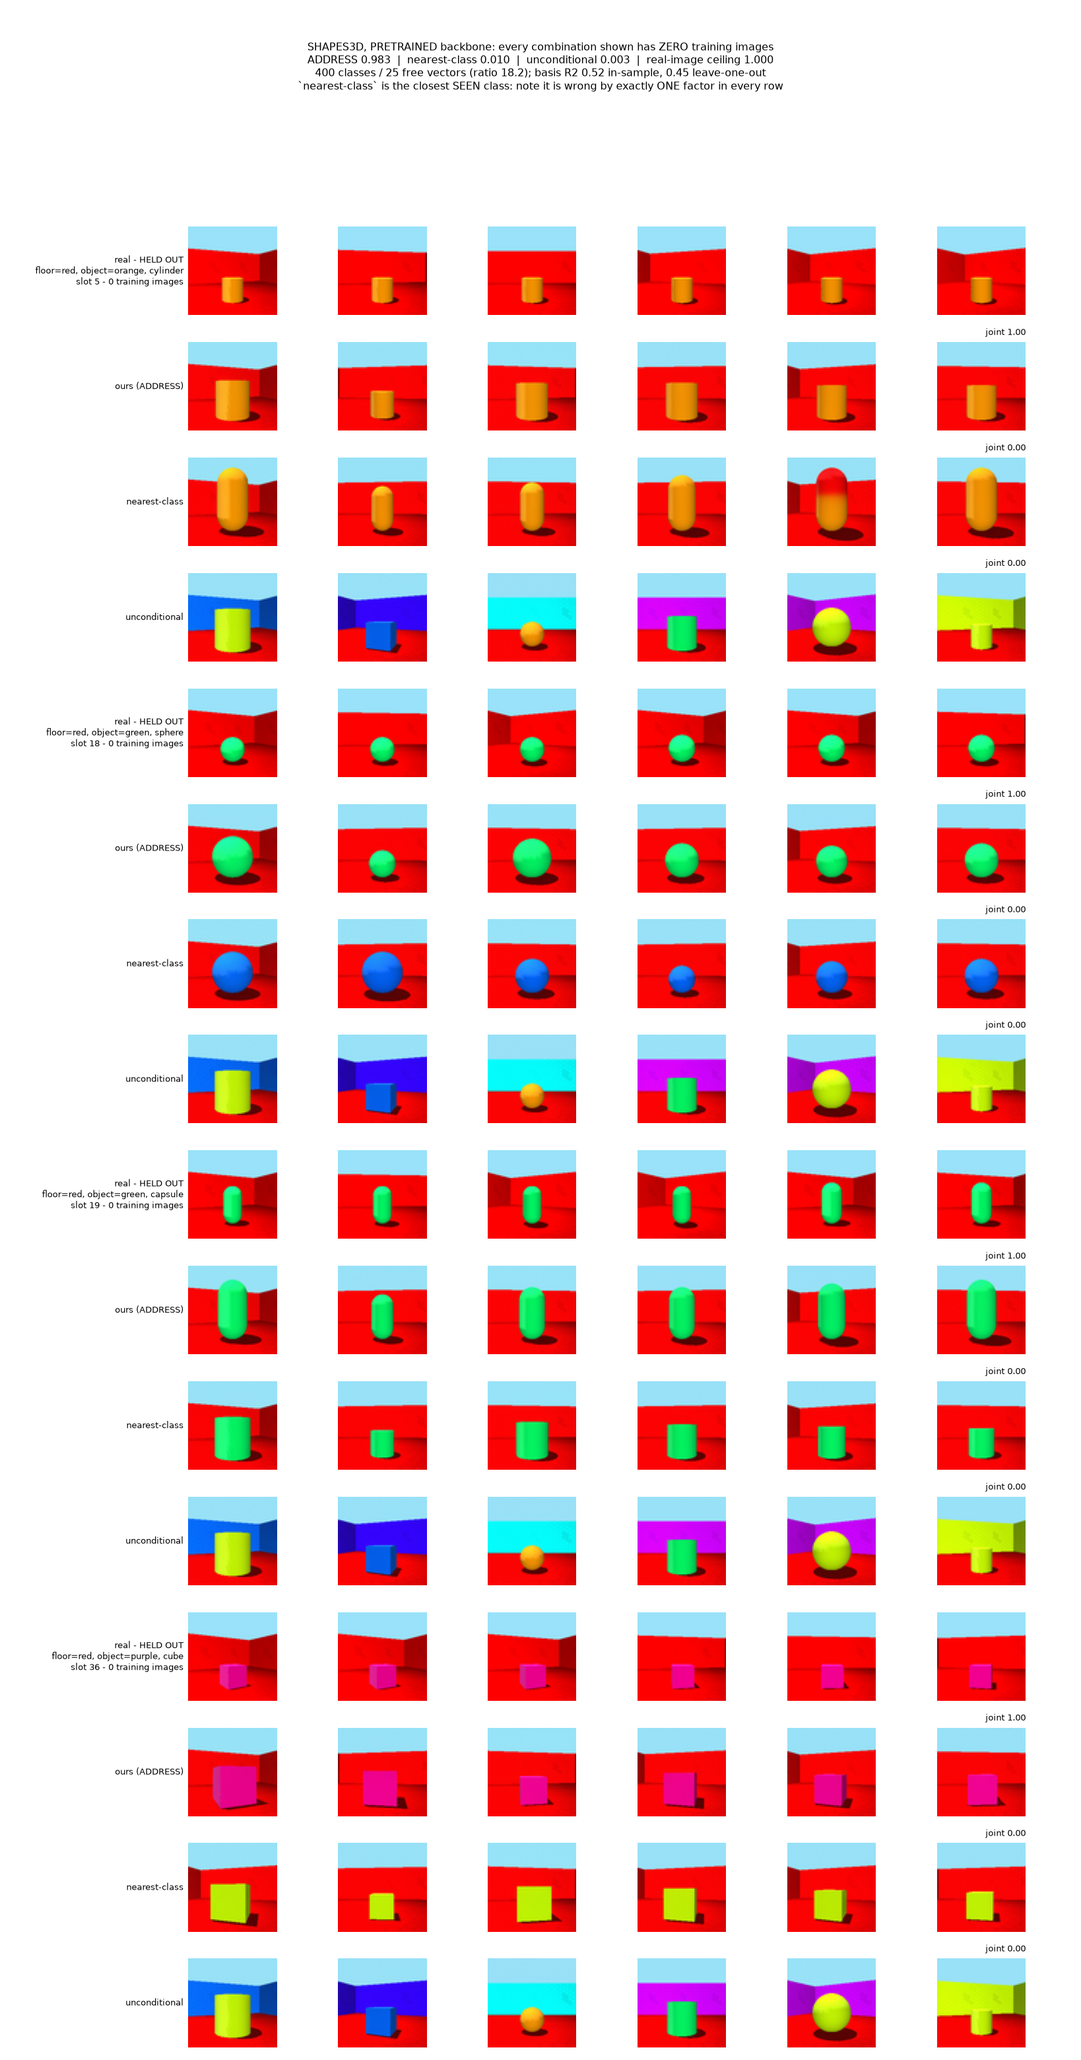
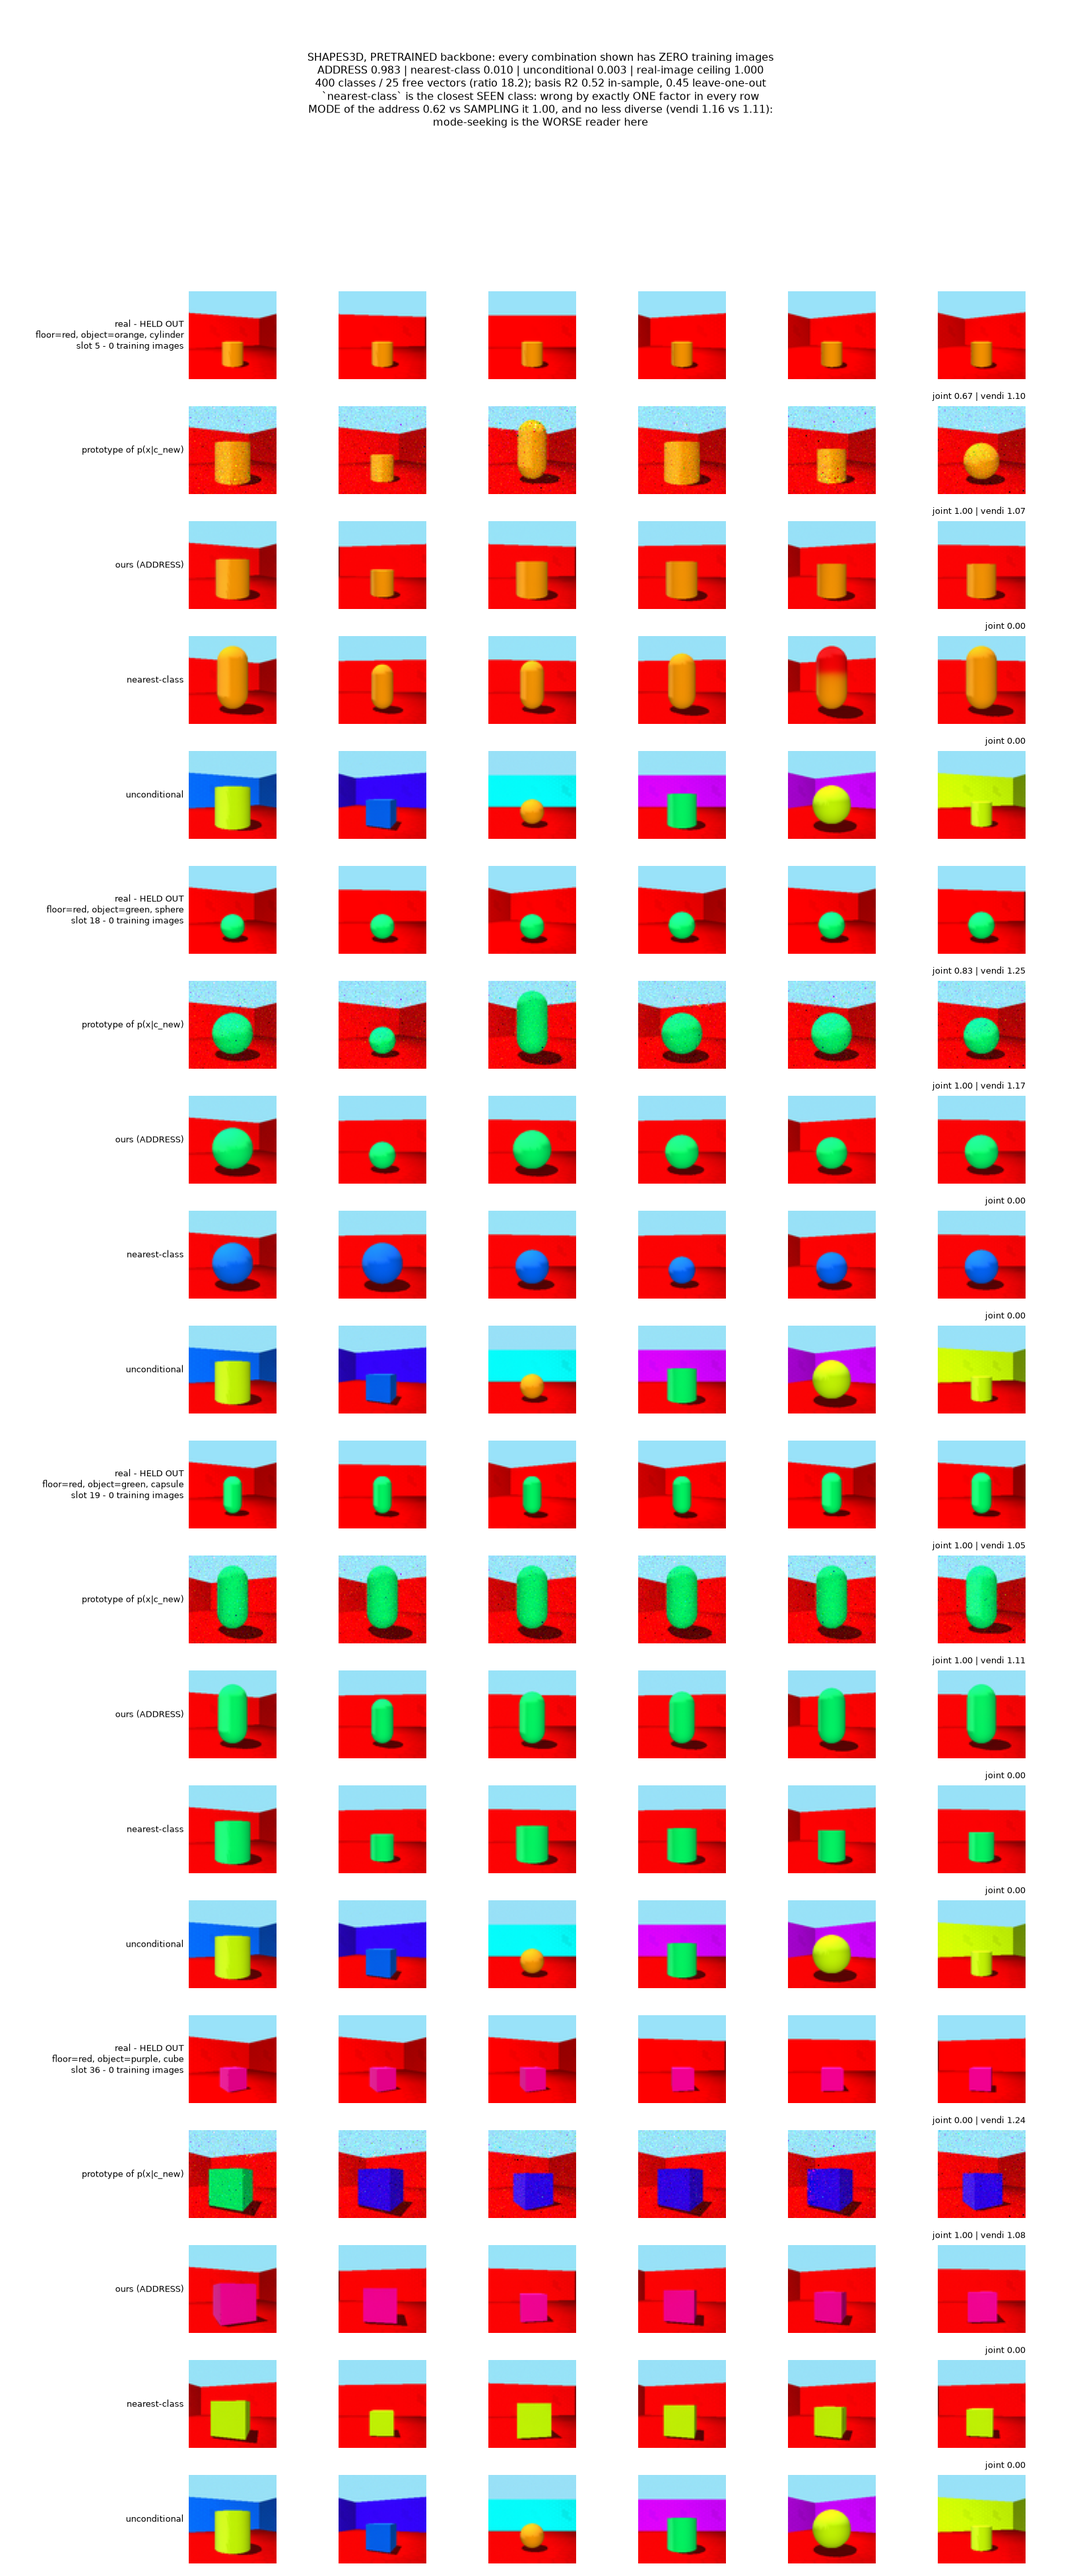
Prototype rows in both Shapes3D case studies -- and they refute their caption
The flagship gains `prototype of p(x|c_new)`; n58's existing row is relabelled
`discovery pool (their Stage 1, UNCONDITIONAL)`, which is what it always was.

The new row was captioned "identity without coverage -- THEORY 4 in one
picture". Measured, it is neither: mode 0.62 against sampling 1.00, vendi 1.16
against 1.11. Mode-seeking is the WORSE reader and no less diverse. Caption,
7jj, 7ll and THEORY 4 now say that instead. Kept because a row that refutes its
caption is worth more than one that decorates it.

Also fixes make_shapes3d_case.py's `real` row, which was in model space where
its probes and display expect data space -- half its pixels clipped to black.

diff --git a/experiments/make_flagship_case.py b/experiments/make_flagship_case.py
@@ -8,9 +8,22 @@ and only the case-study image showed that half the pixels were being clipped awa
 Rows, and what each is for:
 
     real            actual images of the held-out combination -- the target, never shown to the model
-    ours (ADDRESS)  compose(fac, factors) and sample the model's own conditional
+    prototype       the MODE of p(x | c_new) -- Adam ascent on log p_t conditioned on the composed
+                    address, from random starts.  Built to show the IDENTITY half of THEORY 4 on its
+                    own, and it DOES NOT: measured, mode ascent is a WORSE reader of the address than
+                    simply sampling it, and it is not even less diverse.  The row is kept because
+                    that IS the finding -- on a conditional this sharply peaked there is no
+                    identity/coverage gap left to show, and the mode-seeking half of the companion
+                    paper's pipeline buys nothing here.  The caption carries both numbers.
+    ours (ADDRESS)  compose(fac, factors) and sample the model's own conditional -- the COVERAGE half
     nearest-class   the closest SEEN class embedding: the control for "the model already had it"
     unconditional   the floor
+
+The prototype row is the reason `mode_ascent` grew `emb=`.  Until 2026-08-19 both implementations
+ascended the NULL-embedding density, so a "prototype" panel on a conditional model showed the mode of
+p(x) -- a plausible-looking room that has nothing to do with the concept, and no scalar in the figure
+would have said so.  Random starts, not query starts: a prototype seeded from the held-out image
+invites exactly the reading the row exists to refute.
 
 The caption carries the numbers a reader needs to judge the pictures rather than admire them,
 INCLUDING the one that does not flatter us: the composed conditional is accurate and sharply peaked
@@ -33,7 +46,8 @@ from common import CACHE                                              # noqa: E4
 
 from lifelong_ood.data.factored import decode_slot                    # noqa: E402
 from lifelong_ood.data.shapes3d import load_shapes3d                  # noqa: E402
-from lifelong_ood.evals import factor_accuracy, fit_factor_probes     # noqa: E402
+from lifelong_ood.evals import (factor_accuracy, fit_factor_probes,   # noqa: E402
+                                save_json, vendi_score)
 from lifelong_ood.instrument import check_instrument, to_data_space   # noqa: E402
 from lifelong_ood.neural.idealwords import compose, cv_r2, factorize  # noqa: E402
 from lifelong_ood.neural.ve_bridge import load_ve_field               # noqa: E402
@@ -85,18 +99,29 @@ def main():
     cells = [h for h in held if gate.readable(int(h))][:args.n_cells]
     print(f"[fig] {len(cells)} readable held-out cells: {cells}", flush=True)
 
-    order = ["real", "ours (ADDRESS)", "nearest-class", "unconditional"]
+    order = ["real", "prototype of p(x|c_new)", "ours (ADDRESS)", "nearest-class",
+             "unconditional"]
     fig, axes = plt.subplots(len(cells) * len(order), args.n_show,
                              figsize=(1.5 * args.n_show + 3.6, 1.5 * len(cells) * len(order)))
     axes = np.atleast_2d(axes)
     r = 0
+    gamut, measured = [], []
     for h in cells:
         idx = np.where(slot == int(h))[0]
         tgt = tuple(int(v) for v in F[idx[0]])
         c_new = compose(fac, tgt)
         j_near = int(np.argmin(((C - c_new[None]) ** 2).sum(1)))
+        # u=0.30 / iters=120 / lr=0.05 are diag_ve_discovery's checked settings for THIS field --
+        # the ones where modes provably improve the eps error over their own starting point.  `xq` is
+        # required by the signature but unused at init="random"; the ascent never sees a held-out
+        # image.
+        _, proto = field.mode_ascent(X[idx[0]], 0.30, n_starts=args.n_show, iters=120, lr=0.05,
+                                     seed=args.seed, init="random", emb=c_new)
+        proto = np.asarray(to_data_space(field, proto), np.float32)
+        gamut.append(float(np.mean((proto < 0.0) | (proto > 1.0))))
         got = {
             "real": X[idx[:args.n_show]],
+            "prototype of p(x|c_new)": proto,
             "ours (ADDRESS)": to_data_space(field, field.sample(
                 n=args.n_show, steps=args.steps, seed=args.seed, emb_override=c_new)),
             "nearest-class": to_data_space(field, field.sample(
@@ -121,24 +146,44 @@ def main():
                 sp_.set_visible(False)
             if nm != "real":
                 j = float(factor_accuracy(probes, S, tgt)["joint"])
-                axes[r][args.n_show - 1].set_title(f"joint {j:.2f}", fontsize=7, loc="right")
+                measured.append(dict(slot=int(h), arm=nm, joint=j,
+                                     vendi=float(vendi_score(S))))
+                # Vendi on the two conditional arms only, because the contrast between them IS the
+                # claim: same address, one mode against a distribution.
+                v = (f" | vendi {float(vendi_score(S)):.2f}"
+                     if nm in ("prototype of p(x|c_new)", "ours (ADDRESS)") else "")
+                axes[r][args.n_show - 1].set_title(f"joint {j:.2f}{v}", fontsize=7, loc="right")
             r += 1
 
     # Short lines, because a caption clipped at both margins carries nothing. The detail lives in
     # RESULTS 7jj; this says only what a reader needs to judge the pictures.
+    def _m(arm, key):
+        v = [d[key] for d in measured if d["arm"] == arm]
+        return float(np.mean(v)) if v else float("nan")
+
+    # SHORT lines.  The docstring above says a caption clipped at both margins carries nothing, and
+    # the first version of this one was clipped at both margins.
     fig.suptitle(
         "SHAPES3D, PRETRAINED backbone: every combination shown has ZERO training images\n"
-        "ADDRESS 0.983  |  nearest-class 0.010  |  unconditional 0.003  |  real-image ceiling 1.000\n"
+        "ADDRESS 0.983 | nearest-class 0.010 | unconditional 0.003 | real-image ceiling 1.000\n"
         f"400 classes / 25 free vectors (ratio 18.2); basis R2 {fac['r2']:.2f} in-sample, "
         f"{r2cv:.2f} leave-one-out\n"
-        "`nearest-class` is the closest SEEN class: note it is wrong by exactly ONE factor in every "
-        "row",
+        "`nearest-class` is the closest SEEN class: wrong by exactly ONE factor in every row\n"
+        f"MODE of the address {_m('prototype of p(x|c_new)', 'joint'):.2f} vs SAMPLING it "
+        f"{_m('ours (ADDRESS)', 'joint'):.2f}, and no less diverse "
+        f"(vendi {_m('prototype of p(x|c_new)', 'vendi'):.2f} vs "
+        f"{_m('ours (ADDRESS)', 'vendi'):.2f}):\nmode-seeking is the WORSE reader here",
         fontsize=9)
     fig.tight_layout(rect=[0, 0, 1, 0.93])
     os.makedirs(FIG, exist_ok=True)
     o = os.path.join(FIG, args.out)
     fig.savefig(o, dpi=130)
     print(f"[fig] wrote {o}")
+    for arm in order[1:]:
+        print(f"[fig]   {arm:26s} joint {_m(arm, 'joint'):.3f}  vendi {_m(arm, 'vendi'):.3f}")
+    save_json(dict(cells=[int(c) for c in cells], rows=measured,
+                   gamut_outside_01=float(np.mean(gamut))),
+              os.path.join(HERE, "results", "n78_flagship_case.json"), seed=args.seed)
     return 0
 
 

diff --git a/experiments/n58_shapes3d_results.py b/experiments/n58_shapes3d_results.py
@@ -43,13 +43,21 @@ from lifelong_ood.score import cosine_abar                             # noqa: E
 FIG = os.path.join(HERE, "figures", "initial")
 
 
-def mode_ascent(field, x_img, u, n_starts=4, iters=120, lr=0.05, seed=0, init="hybrid"):
+def mode_ascent(field, x_img, u, n_starts=4, iters=120, lr=0.05, seed=0, init="hybrid", emb=None):
     """Adam ascent on log p_t against the bridged field -> (x0-space modes, provenance).
 
     The same Stage-1 discovery the ColorMNIST and CelebA case studies show in their `prototypes` row,
     so the three figures can be read side by side.  Hybrid initialisation: half the chains from the
     noised query, half from pure noise -- a pool grown only from the query explores one basin, and
     composition needs experts that disagree with it.
+
+    `emb` decides WHICH density is climbed, and the two answers are different pictures:
+
+      emb=None   the paper's Stage 1 -- the UNCONDITIONAL model.  With the query-seeded chains
+                 discarded (as this figure does) these are generic modes of p(x): they are not
+                 prototypes OF the held-out combination and must not be labelled as though they are.
+      emb=c_new  the mode of p(x | c_new) -- what the composed ADDRESS says the combination is,
+                 canonically.  This is the identity half of THEORY 4 with the coverage half removed.
     """
     dev = field.device
     a = float(cosine_abar(np.array([u]))[0])
@@ -73,14 +81,17 @@ def mode_ascent(field, x_img, u, n_starts=4, iters=120, lr=0.05, seed=0, init="h
         src += ["random"] * (n_starts - half)
     xt = torch.cat(parts).clone().requires_grad_(True)
     opt = torch.optim.Adam([xt], lr=lr)
+    e_cond = (None if emb is None else
+              torch.as_tensor(np.asarray(emb, np.float32), device=dev).reshape(1, -1)
+                   .expand(len(xt), -1))
     for _ in range(iters):
-        eps = field.model(xt, torch.full((len(xt),), float(u), device=dev))
+        eps = field.model(xt, torch.full((len(xt),), float(u), device=dev), emb_override=e_cond)
         loss = (eps.detach() * xt).sum() / max((1 - a) ** 0.5, 1e-6)
         opt.zero_grad(set_to_none=True)
         loss.backward()
         opt.step()
     with torch.no_grad():
-        eps = field.model(xt, torch.full((len(xt),), float(u), device=dev))
+        eps = field.model(xt, torch.full((len(xt),), float(u), device=dev), emb_override=e_cond)
         x0 = (xt - ((1 - a) ** 0.5) * eps) / (a ** 0.5)
     return x0.detach().permute(0, 2, 3, 1).reshape(len(x0), -1).cpu().numpy(), src
 
@@ -223,7 +234,8 @@ def main():
     import matplotlib
     matplotlib.use("Agg")
     import matplotlib.pyplot as plt
-    order = ["real", "prototypes", "ours (ADDRESS)", "nearest-class", "unconditional"]
+    order = ["real", "discovery pool (their Stage 1)", "prototype of p(x|c_new)",
+             "ours (ADDRESS)", "nearest-class", "unconditional"]
     show = cases[:4]
     fig, axes = plt.subplots(len(show) * len(order), args.n_show,
                              figsize=(1.5 * args.n_show + 4.4, 1.5 * len(show) * len(order)))
@@ -265,8 +277,15 @@ def main():
             if keep:
                 m, sr = np.asarray(m)[keep], [sr[i] for i in keep]
             P.append(m); psrc += [f"{q}-init u={uu:g}" for q in sr]
+        # The SAME ascent, at the same settings, conditioned on the composed address instead of on
+        # nothing.  Random starts only: a prototype seeded from the held-out image would invite
+        # exactly the reading this row exists to refute.
+        proto_c, _ = mode_ascent(field, X[idx[0]].reshape(64, 64, 3).transpose(2, 0, 1), 0.30,
+                                 n_starts=args.n_show, init="random",
+                                 seed=args.seed + 9973 * int(s), emb=c_addr)
         got = {"real": X[idx[:args.n_show]],
-               "prototypes": np.concatenate(P)[:args.n_show],
+               "discovery pool (their Stage 1)": np.concatenate(P)[:args.n_show],
+               "prototype of p(x|c_new)": np.asarray(proto_c, np.float32),
                "ours (ADDRESS)": field.sample(n=args.n_show, steps=args.steps, seed=args.seed,
                                               emb_override=c_addr),
                "nearest-class": field.sample(n=args.n_show, steps=args.steps, seed=args.seed,
@@ -277,20 +296,26 @@ def main():
         combo = ", ".join(f"{n}={int(v)}" for n, v in zip(names, tgt))
         for nm in order:
             S = np.asarray(got[nm], np.float32)
-            a = (factor_accuracy(probes, S, tgt) if nm != "prototypes"
-                 else {"joint": float("nan")})
+            # The discovery pool is query-AGNOSTIC and unconditional, so a joint accuracy against
+            # THIS target would be scoring it on a question it was never asked.  The conditional
+            # prototype IS asked that question, so it is scored.
+            a = (factor_accuracy(probes, S, tgt)
+                 if nm != "discovery pool (their Stage 1)" else {"joint": float("nan")})
             for k in range(args.n_show):
                 axes[r][k].axis("off")
                 if k < len(S):
                     axes[r][k].imshow(np.clip(S[k].reshape(64, 64, 3), 0, 1))
             lab = (f"real - HELD OUT\n{combo}\nslot {int(s)} - {n_tr} training images"
                    if nm == "real" else
-                   "prototypes\n(mode ascent)" if nm == "prototypes" else nm)
+                   "discovery pool\n(their Stage 1,\nUNCONDITIONAL)"
+                   if nm == "discovery pool (their Stage 1)" else
+                   "prototype of\np(x|c_new)\n(conditional ascent)"
+                   if nm == "prototype of p(x|c_new)" else nm)
             axes[r][0].set_ylabel(lab, rotation=0, ha="right", va="center", fontsize=6.5)
             axes[r][0].axis("on"); axes[r][0].set_xticks([]); axes[r][0].set_yticks([])
             for sp_ in axes[r][0].spines.values():
                 sp_.set_visible(False)
-            if nm == "prototypes":
+            if nm == "discovery pool (their Stage 1)":
                 for k in range(min(args.n_show, len(psrc))):
                     axes[r][k].set_title(psrc[k], fontsize=5.5)
             else:

diff --git a/experiments/make_shapes3d_case.py b/experiments/make_shapes3d_case.py
@@ -32,7 +32,7 @@ sys.path.insert(0, os.path.join(HERE, "experiments"))
 from lifelong_ood.evals import (factor_accuracy, fit_factor_probes,   # noqa: E402
                                 probe_readable)
 from lifelong_ood.data.factored import decode_slot, load_factored          # noqa: E402
-from lifelong_ood.neural.ddpm import load_field, to_data, to_model    # noqa: E402
+from lifelong_ood.neural.ddpm import load_field, to_data              # noqa: E402
 from lifelong_ood.neural.idealwords import (compose, factorize,       # noqa: E402
                                             sample_factored_pool)
 
@@ -90,7 +90,12 @@ def main():
         tgt = decode_slot(np.array([int(slot)]), sizes)[0]
         idx = np.where(data["slot"] == int(slot))[0]
         n_train = int(np.sum((data["slot"] == int(slot)) & data["seen"]))
-        real = np.stack([to_model(data["X"][i]).ravel() for i in idx[:args.n_show]])
+        # DATA space, like every other arm here: `data["X"]` is already [0,1].  This was
+        # `to_model(...)`, which put the real row in [-1,1] -- so half its pixels were clipped
+        # to black by the display and its accuracy was scored by data-space probes.  Same
+        # fault as the n73 range fault, in the one row of the figure nobody re-checked.
+        real = np.stack([np.asarray(data["X"][i], np.float64).ravel()
+                         for i in idx[:args.n_show]])
         c_addr = compose(fac, tuple(int(v) for v in tgt))
         d2 = ((C - c_addr[None]) ** 2).sum(1)
         got = {
